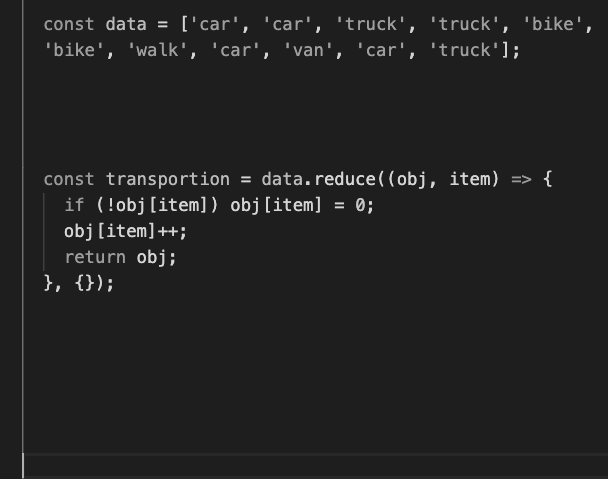
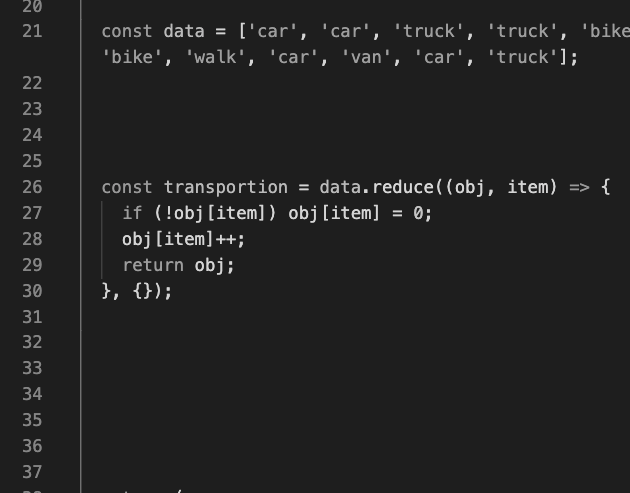
code cleanup

Changed region(s): [[0.0312, 0.0, 1.0, 1.0], [0.2812, 0.9937, 0.3125, 1.0]]

diff --git a/src/components/javascript30/array_cardio1.jsx b/src/components/javascript30/array_cardio1.jsx
@@ -20,29 +20,16 @@ const ArrayCardio1 = () => {
 
   const data = ['car', 'car', 'truck', 'truck', 'bike', 'walk', 'car', 'van', 'bike', 'walk', 'car', 'van', 'car', 'truck'];
 
-
-
-
   const transportion = data.reduce((obj, item) => {
     if (!obj[item]) obj[item] = 0;
     obj[item]++;
     return obj;
   }, {});
 
-
-  
-
-
-
-
   return (
     <div className="content-container">
       <h1>Psst: have a look at the JavaScript Console</h1>
       <script>
-        {/* // Get your shorts on - this is an array workout!
-        // ## Array Cardio Day 1
-
-        // Some data we can work with */}
         {/* // Array.prototype.filter() */}
         {console.log("1. Filter the list of inventors for those who were born in the 1500's")}
         {console.table(inventors.filter(inventor => inventor.year >= 1500 && inventor.year < 1600))}
@@ -64,7 +51,6 @@ const ArrayCardio1 = () => {
 
         {/* // 6. create a list of Boulevards in Paris that contain 'de' anywhere in the name
         // https://en.wikipedia.org/wiki/Category:Boulevards_in_Paris */}
-
 
         {/* // 7. sort Exercise */}
         {console.log("6. Sort the people alphabetically by last name")}
